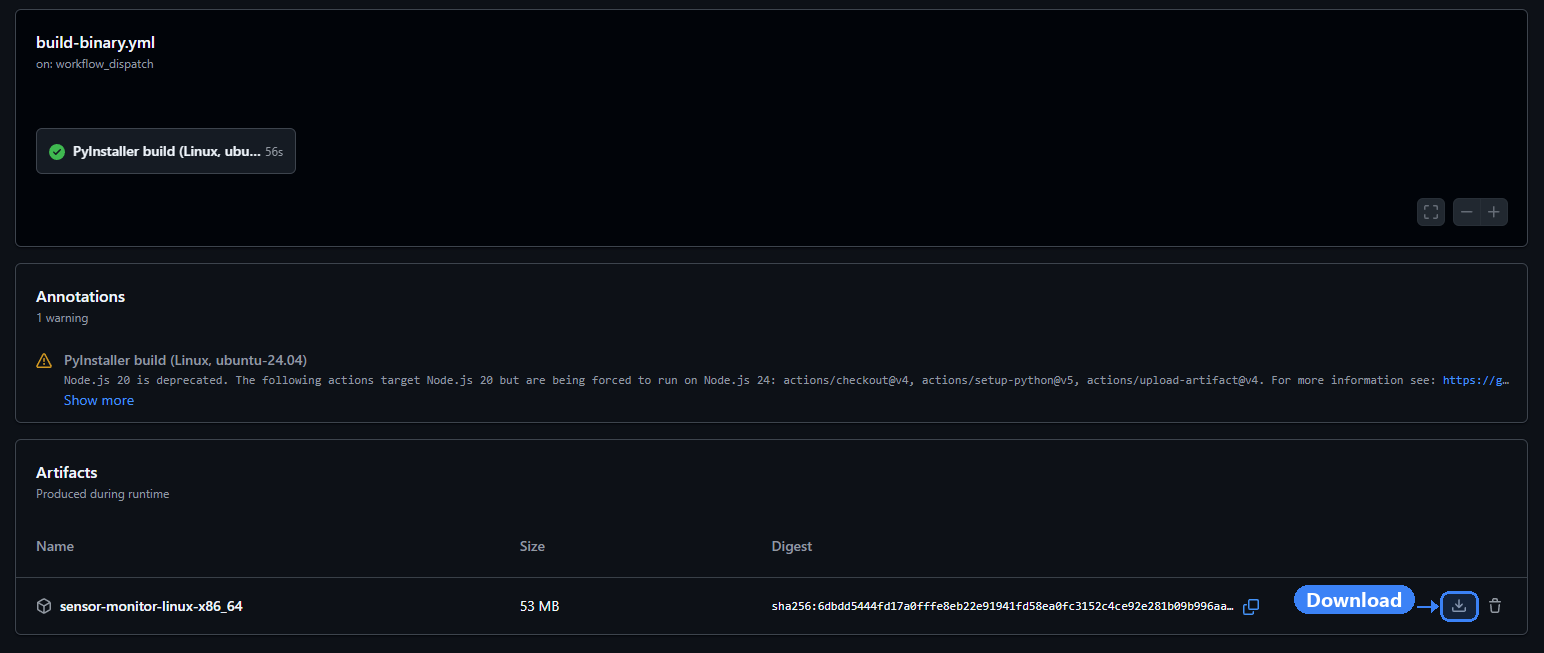
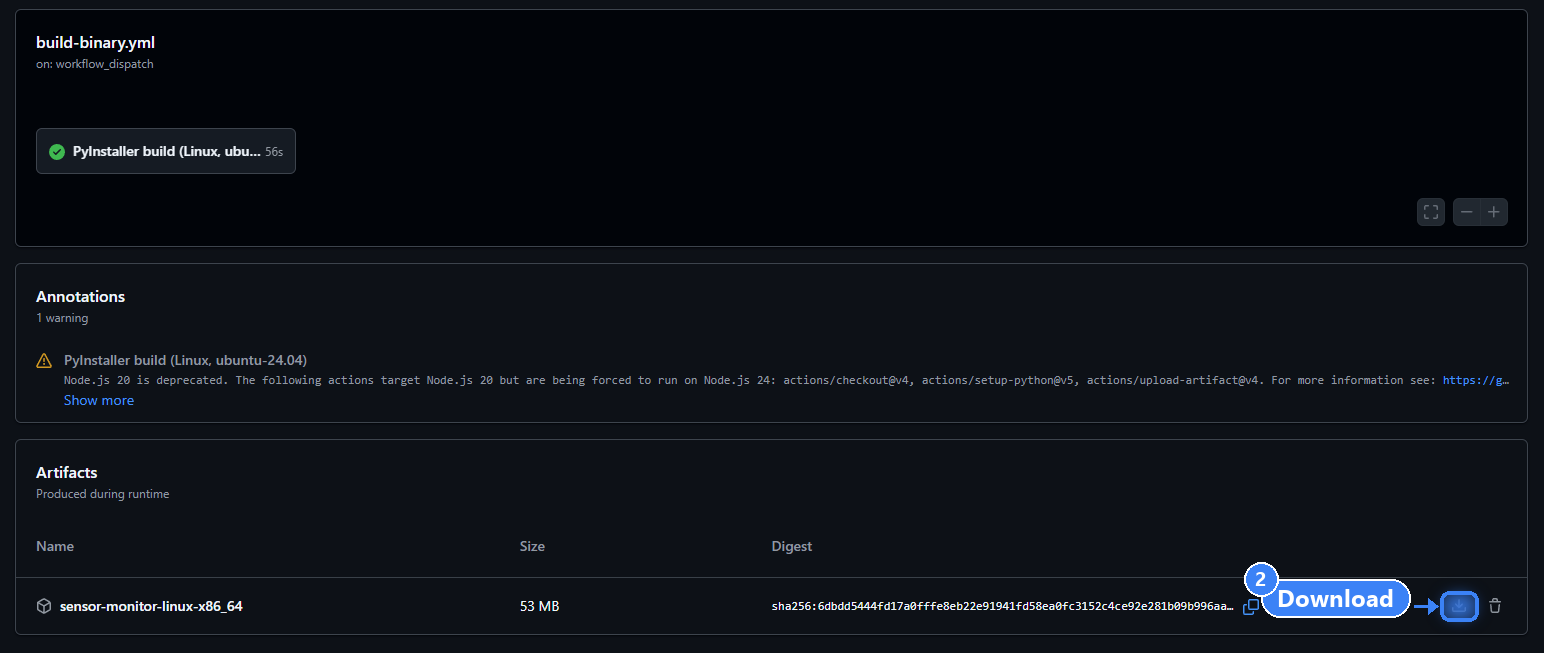
feat: enhance standalone binary build process and update documentation
- Added permissions for publishing release assets in the build workflow.
- Updated README to clarify the standalone binary usage and download instructions.
- Included new images for better clarity in the documentation.

Changed region(s): [[0.8083, 0.8576, 0.9637, 0.9495]]

diff --git a/README.md b/README.md
@@ -1,6 +1,6 @@
 # Sensor Monitor
 
-![CI](https://github.com/duduvpereira/SensorMonitorTII/actions/workflows/ci.yml/badge.svg)
+[![CI](https://github.com/duduvpereira/SensorMonitorTII/actions/workflows/ci.yml/badge.svg)](https://github.com/duduvpereira/SensorMonitorTII/actions/workflows/ci.yml)
 ![Python](https://img.shields.io/badge/python-3.12%2B-blue)
 ![Tests](https://img.shields.io/badge/tests-102%20passing-brightgreen)
 ![Lint](https://img.shields.io/badge/lint-ruff-D7FF64)
@@ -17,9 +17,9 @@ challenge.
 ## Table of Contents
 
 - [Getting Started](#getting-started)
-  - [Run with Docker (recommended)](#run-with-docker-recommended)
-  - [Run locally with Python](#run-locally-with-python)
   - [Run the standalone binary](#run-the-standalone-binary)
+  - [Run with Docker](#run-with-docker)
+  - [Run locally with Python](#run-locally-with-python)
 - [Overview](#overview)
 - [Architecture](#architecture)
 - [Project Status](#project-status)
@@ -38,11 +38,82 @@ the same UI at <http://localhost:48000>:
 
 | | What you need | Best for |
 |---|---|---|
-| [**Docker**](#run-with-docker-recommended) | Docker Engine only | running or evaluating the app |
+| [**Standalone binary**](#run-the-standalone-binary) | Nothing | the quickest way to just try it — download one file and run it |
+| [**Docker**](#run-with-docker) | Docker Engine only | running or evaluating the app in an isolated, reproducible environment |
 | [**Local Python**](#run-locally-with-python) | Python 3.12+ | developing, running the tests |
-| [**Standalone binary**](#run-the-standalone-binary) | Nothing | Docker unavailable and Python unavailable/unwanted |
 
-### Run with Docker (recommended)
+### Run the standalone binary
+
+The fastest way to try the app: `sensor-monitor` is a single self-contained
+executable (built with [PyInstaller](https://pyinstaller.org/)) that bundles
+the interpreter, every dependency and the frontend into one file. No install
+step of any kind — works even without Docker or a usable Python on the
+machine.
+
+**Get the binary** — a plain, public download, no GitHub account needed:
+
+```bash
+curl -LO https://github.com/duduvpereira/SensorMonitorTII/releases/download/standalone-latest/sensor-monitor
+```
+
+Or from a browser: [**Releases → standalone-latest**](https://github.com/duduvpereira/SensorMonitorTII/releases/tag/standalone-latest) →
+download the `sensor-monitor` asset.
+
+This is a rolling release: the `standalone-latest` tag always points at the
+most recent successful build, republished by CI on every run of the
+[**Build standalone binary**](https://github.com/duduvpereira/SensorMonitorTII/actions/workflows/build-binary.yml)
+workflow — nothing to trigger by hand.
+
+<details>
+<summary>Alternative: get it from the workflow run directly instead of the release</summary>
+
+Useful for a specific commit's build rather than the latest one. Note this
+route needs a signed-in GitHub account to download from — even on a public
+repo, that's a GitHub Actions artifact restriction, not something this repo
+controls. The release download above has no such requirement.
+
+1. Open the [**Build standalone binary**](https://github.com/duduvpereira/SensorMonitorTII/actions/workflows/build-binary.yml)
+   workflow and click **①** the run you want:
+
+   ![Opening the workflow run](docs/images/build-binary-workflow-runs.png)
+
+2. On the run's summary page, scroll to **Artifacts** and click **②** to
+   download `sensor-monitor-linux-x86_64`:
+
+   ![Downloading the built artifact from the run](docs/images/build-binary-artifact.png)
+
+It's a zip; unzip it to get the `sensor-monitor` executable.
+
+</details>
+
+Or build it yourself on Linux instead:
+
+```bash
+./packaging/build.sh      # needs only python3 + pip; output: dist/sensor-monitor
+```
+
+**Run it:**
+
+```bash
+chmod +x sensor-monitor   # if it doesn't already have the execute bit
+./sensor-monitor
+```
+
+It starts the mock uC and the backend together in a single process (unlike
+[`./run.sh`](#run-the-application), which supervises two), checks both
+ports before touching either, and opens a browser. `./sensor-monitor --help`
+lists the flags (`--port`, `--uc-port`, `--fps`, `--no-mock` for real
+hardware, `--no-browser`, ...).
+
+Built for **Linux x86_64**, compiled by CI on `ubuntu-24.04` — the same OS
+version the challenge names as the evaluation target, so the build's glibc
+is guaranteed compatible with it. `packaging/build.sh` has no Linux-specific
+step, so building on macOS should work too, but only the Linux build is
+what CI actually verifies end to end (it starts the binary and drives a
+real frame through `/ws`, not just checks that PyInstaller exits 0 — see
+[`.github/workflows/build-binary.yml`](.github/workflows/build-binary.yml)).
+
+### Run with Docker
 
 #### Prerequisites
 
@@ -107,8 +178,6 @@ MOCK_PORT=8766 docker compose up --build
 ```
 
 </details>
-
-| Service | Container | Port | Role |
 
 | Service | Container | Port | Role |
 |---|---|---|---|
@@ -194,7 +263,7 @@ To install only what the application itself needs, use
 > ```
 > Ubuntu 24.04 and Fedora 42 both ship 3.12 by default, so this only comes up
 > on an older or customized install. If reinstalling Python isn't an option,
-> [Run with Docker](#run-with-docker-recommended) sidesteps the host's Python
+> [Run with Docker](#run-with-docker) sidesteps the host's Python
 > version entirely.
 
 #### Run the application
@@ -338,47 +407,6 @@ curl -O -J "http://localhost:48000/export?fmt=csv&seconds=5"
 curl -O -J "http://localhost:48000/export?fmt=json&seconds=5"
 ```
 
-### Run the standalone binary
-
-For a machine with neither Docker nor a usable Python: `sensor-monitor` is a
-single self-contained executable (built with [PyInstaller](https://pyinstaller.org/))
-that bundles the interpreter, every dependency and the frontend into one
-file. No install step of any kind.
-
-**Get the binary** — download it from a run of the
-[**Build standalone binary**](https://github.com/duduvpereira/SensorMonitorTII/actions/workflows/build-binary.yml)
-GitHub Actions workflow: open it, *Run workflow*, wait ~2 minutes, then grab
-the `sensor-monitor-linux-x86_64` artifact from the run's summary page:
-
-![Downloading the built artifact from a workflow run](docs/images/build-binary-artifact.png)
-
-Or build it yourself on Linux instead:
-
-```bash
-./packaging/build.sh      # needs only python3 + pip; output: dist/sensor-monitor
-```
-
-**Run it:**
-
-```bash
-chmod +x sensor-monitor   # if it doesn't already have the execute bit
-./sensor-monitor
-```
-
-It starts the mock uC and the backend together in a single process (unlike
-[`./run.sh`](#run-the-application), which supervises two), checks both
-ports before touching either, and opens a browser. `./sensor-monitor --help`
-lists the flags (`--port`, `--uc-port`, `--fps`, `--no-mock` for real
-hardware, `--no-browser`, ...).
-
-Built for **Linux x86_64**, compiled by CI on `ubuntu-24.04` — the same OS
-version the challenge names as the evaluation target, so the build's glibc
-is guaranteed compatible with it. `packaging/build.sh` has no Linux-specific
-step, so building on macOS should work too, but only the Linux build is
-what CI actually verifies end to end (it starts the binary and drives a
-real frame through `/ws`, not just checks that PyInstaller exits 0 — see
-[`.github/workflows/build-binary.yml`](.github/workflows/build-binary.yml)).
-
 ## Overview
 
 A microcontroller on a LAN runs a WebSocket server. As soon as a client
@@ -489,7 +517,7 @@ Mapping the challenge's mandatory requirements to their implementation status:
 | Validate sample count; red log line on mismatch | ✅ Done | `frame_validator.py` → `.log-line-error` |
 | XXH3_128 hash of raw payload per frame | ✅ Done | `hashing.py` |
 | Git commit history | ✅ Done | incremental commits, see `git log` |
-| Runs on Ubuntu 24.04 / Fedora 42 or container | ✅ Done | `Dockerfile` + `docker-compose.yml` ([Run with Docker](#run-with-docker-recommended)); CI (`ci.yml`, `build-binary.yml`) runs and is green on `ubuntu-24.04` directly, not just in a container — see [Project Status](#project-status) for exactly what that does and doesn't cover |
+| Runs on Ubuntu 24.04 / Fedora 42 or container | ✅ Done | `Dockerfile` + `docker-compose.yml` ([Run with Docker](#run-with-docker)); CI (`ci.yml`, `build-binary.yml`) runs and is green on `ubuntu-24.04` directly, not just in a container — see [Project Status](#project-status) for exactly what that does and doesn't cover |
 | *(optional)* Data export | ✅ Done | `export.py` + `GET /export` + GUI controls |
 | *(optional)* Frequency-domain plot (FFT) | ✅ Done | `spectrum.py` (Hann + rfft, dBFS) → FD tab, computed on demand |
 | *(optional)* FFT peak detection | ✅ Done | `spectrum.py::compute_spectrum` (full-resolution argmax) → Peak read-out in FD |
@@ -798,11 +826,25 @@ implementation decision:
     and drives a real frame through `/ws`, not just checks that PyInstaller
     exited 0.
 
+30. **The binary is published as a GitHub Release asset, not just a workflow
+    artifact.** `actions/upload-artifact` output can only be downloaded by
+    someone signed in to GitHub — true even on a public repository, and not
+    something a repo setting can turn off. That is a real obstacle for
+    "anyone can just download and run this," which is the entire pitch of
+    shipping a binary in the first place. `build-binary.yml` republishes the
+    same file to one rolling release (tag `standalone-latest`) on every
+    successful run, giving a single stable, anonymous, plain-HTTPS download
+    link that works with no GitHub account at all. The workflow-artifact
+    route is kept too, for the narrower case of wanting a specific commit's
+    build rather than the newest one.
+
 ## Continuous Integration
 
 Every push and pull request runs the **Sensor Monitor CI** workflow
 (`.github/workflows/ci.yml`) on `ubuntu-24.04`, as two independent jobs that
-run in parallel.
+run in parallel. See it run, or check the latest result, at
+[**github.com/duduvpereira/SensorMonitorTII/actions/workflows/ci.yml**](https://github.com/duduvpereira/SensorMonitorTII/actions/workflows/ci.yml)
+(same link as the CI badge at the top of this file).
 
 ### `lint` — ruff
 
